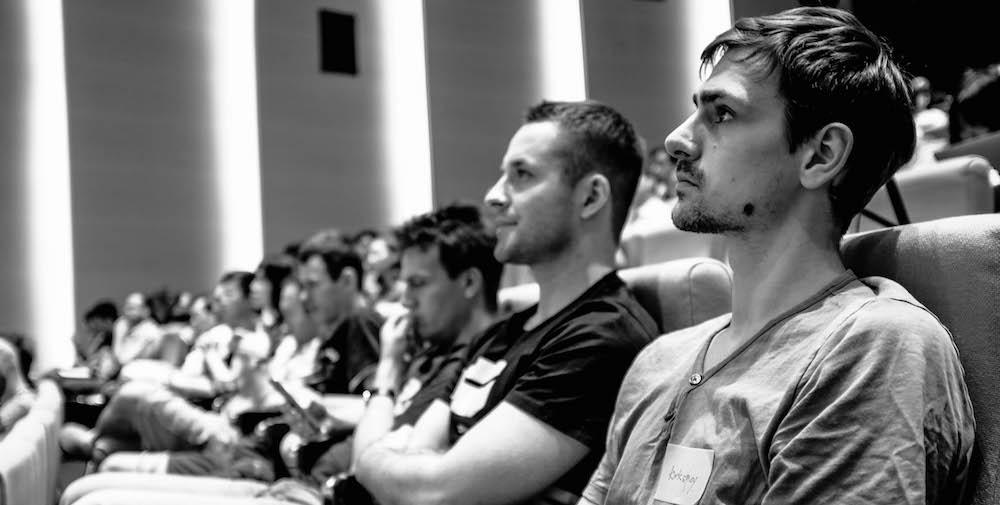
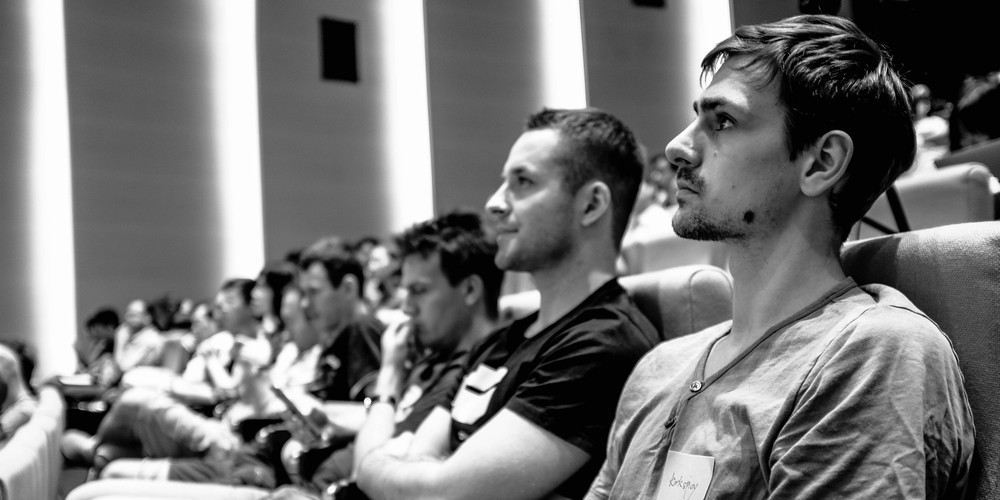
Improve quality and positioning of background images

diff --git a/css/style.scss b/css/style.scss
@@ -246,7 +246,7 @@ section {
 	// linear-gradient($blue 0%, $red 100%),
 	// linear-gradient(to right, $blue 0%, $red 100%);
   background-size: cover;
-	background-position: center;
+	background-position: top left;
 }
 
 .bg2 {
@@ -256,7 +256,7 @@ section {
 	// linear-gradient($red 0%, $blue 100%),
 	// linear-gradient(to right, $blue 0%, $red 100%);
   background-size: cover;
-	background-position: bottom center;
+	background-position: center;
 }
 
 .bg3 {
